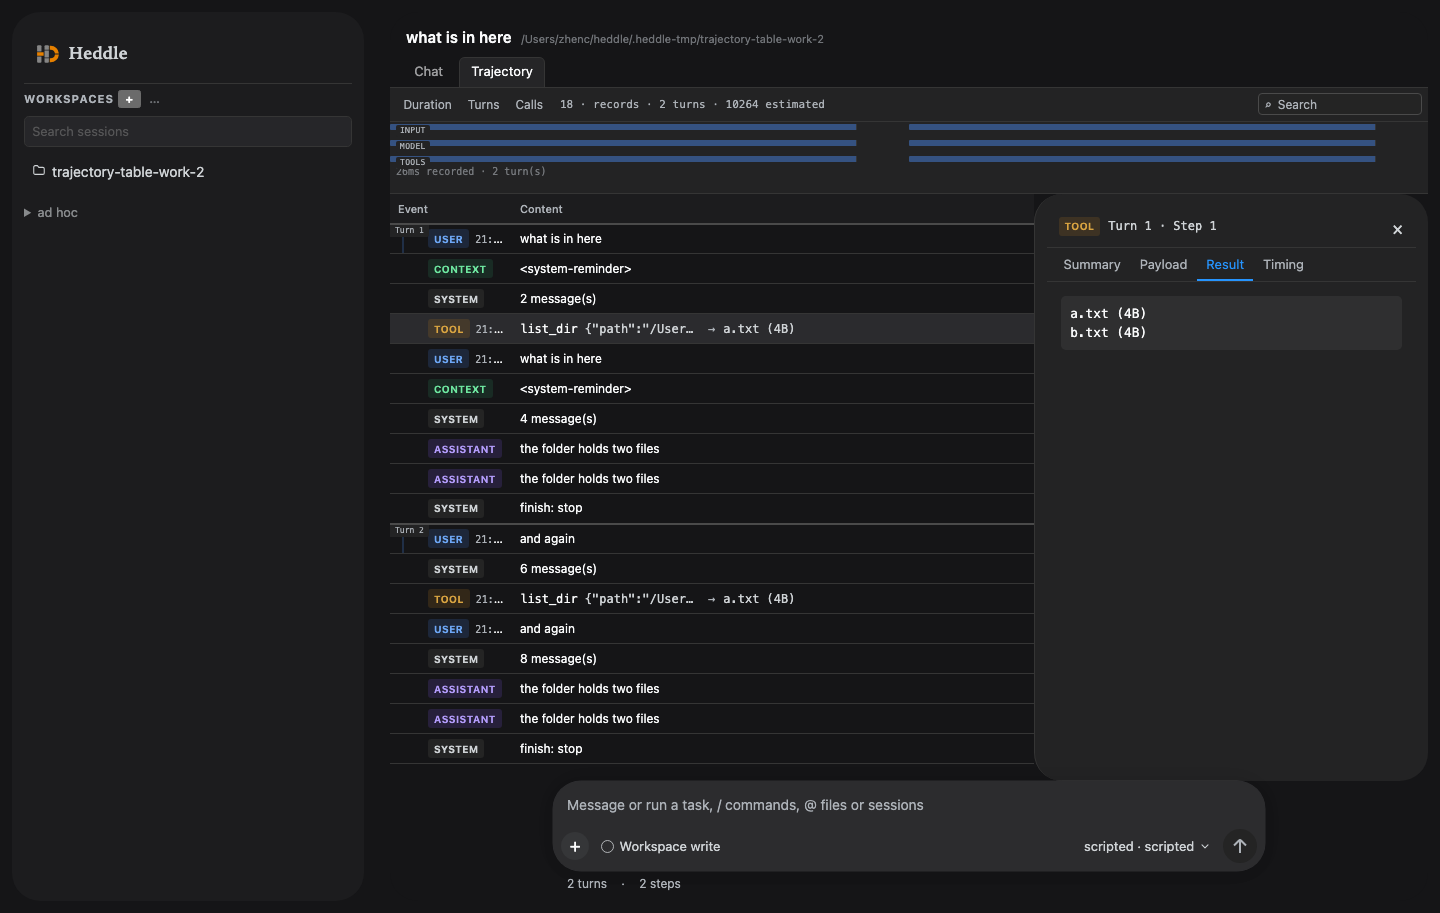
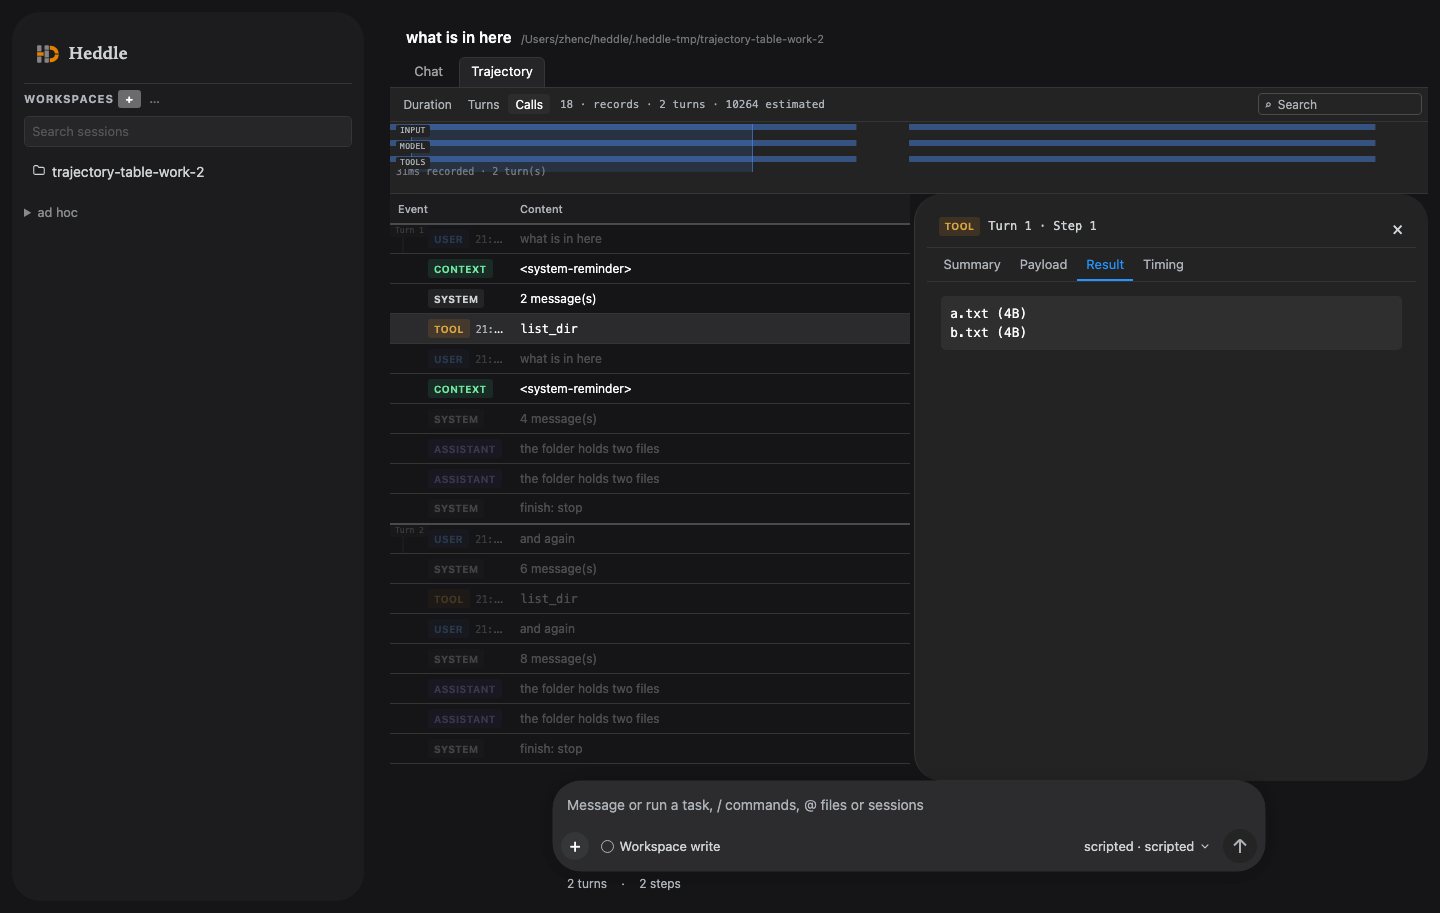
feat(trajectory): a resizable details pane, and the interaction claims pinned
Three interactions DSH's Trajectory has were implemented and then judged rather than assumed:

- **the details pane resizes**: an 8px col-resize handle on its left edge, dragging it sets the width in
  pixels within the bounds the table needs. A synthetic-pointer drag moves it 120px and the check asserts
  it kept the width.
- **the lane strip focuses a window**: dragging across Input/Model/Tools sets the focus range, and rows
  outside it dim. The check drags the strip and asserts rows carry `data-focus="outside"` at DSH's
  **0.24** opacity.
- **collapse calls**: one compact line per call with its arguments and result preview hidden until the
  row is opened. The check asserts the switch's pressed state, the compact class, and that both previews
  compute to `display: none`.

The renderer also survives a synthetic pointer now: `setPointerCapture` can throw for a pointer id the
browser did not issue, and the drag works from the window listeners regardless, so the call is guarded
instead of aborting the focus interaction.

Verified: the part 9 Trajectory check is green with all three assertions, `npm test` is 226 passing and
`tsc --noEmit` is clean. The page diff for this round was entirely this change, so it committed without
sweeping the other session's in-flight work; the screenshot beside the DSH reference in
`_context_/dsh-mechanisms/` was regenerated from the checked page.
[…]

diff --git a/src/server/page.html b/src/server/page.html
@@ -1053,6 +1053,8 @@
   #tr-table tbody tr.tr-compact .tr-args, #tr-table tbody tr.tr-compact .tr-result, #tr-table tbody tr.tr-compact .tr-arrow { display: none; }
   #tr-details { display: flex; flex-direction: column; flex: none; width: clamp(320px, 38%, 440px); min-width: 0; border-left: .5px solid var(--line); background: var(--surface); overflow: hidden; }
   #tr-details[hidden] { display: none; }
+  .tr-d-resize { flex: none; width: 8px; margin-left: -4px; cursor: col-resize; touch-action: none; background: none; border: 0; padding: 0; position: relative; z-index: 2; }
+  .tr-d-resize:hover, .tr-d-resize:focus-visible { outline: none; box-shadow: inset 1px 0 0 var(--accent); }
   .tr-d-head { display: flex; align-items: center; gap: 8px; flex: none; height: 42px; padding: 0 8px 0 12px; border-bottom: .5px solid var(--line); }
   .tr-d-where { min-width: 0; overflow: hidden; white-space: nowrap; text-overflow: ellipsis; color: var(--text-2); font: 500 12px var(--mono); }
   .tr-d-close { margin-left: auto; flex: none; width: 28px; height: 28px; border: 0; border-radius: 4px; background: none; color: var(--text-2); font-size: 18px; line-height: 18px; cursor: pointer; }
@@ -1875,7 +1877,30 @@ function renderLedger(data, timeline_ = { spans: [], durationMs: 0 }) {
   const details = document.createElement('aside')
   details.id = 'tr-details'
   details.hidden = true
-  split.append(pane, details)
+  const resize = document.createElement('div')
+  resize.className = 'tr-d-resize'
+  resize.setAttribute('role', 'separator')
+  resize.setAttribute('aria-orientation', 'vertical')
+  resize.setAttribute('aria-label', 'resize the details pane')
+  const setWidth = (width) => {
+    const bounds = split.getBoundingClientRect()
+    const clamped = Math.max(280, Math.min(width, Math.max(320, bounds.width - 280)))
+    details.style.width = clamped + 'px'
+    resize.setAttribute('aria-valuenow', String(Math.round(clamped)))
+  }
+  resize.addEventListener('pointerdown', (pointerEvent) => {
+    pointerEvent.preventDefault()
+    const startX = pointerEvent.clientX
+    const startWidth = details.getBoundingClientRect().width
+    const move = (event) => setWidth(startWidth - (event.clientX - startX))
+    const stop = () => {
+      window.removeEventListener('pointermove', move)
+      window.removeEventListener('pointerup', stop)
+    }
+    window.addEventListener('pointermove', move)
+    window.addEventListener('pointerup', stop)
+  })
+  split.append(pane, resize, details)
   ledger.replaceChildren(split)
 
   const status = document.getElementById('tr-status')
@@ -1963,7 +1988,7 @@ function rowNode(row, index) {
   } else {
     const text = document.createElement('span')
     text.className = 'tr-text'
-    text.textContent = previewOf(record) + (record.inFlight === true ? ' · running' : '')
+    text.textContent = (row.preview ?? previewOf(record)) + (record.inFlight === true ? ' · running' : '')
     content.append(text)
   }
   tr.append(event, content)
@@ -2160,14 +2185,14 @@ function renderTimeline(timeline_, data = {}) {
   const spans = timeline_?.spans ?? []
   if (spans.length === 0) return
   const total = timeline_?.durationMs ?? 0
-  const laneKinds = { input: ['user', 'context', 'system'], model: ['assistant', 'reasoning', 'compaction'], tools: ['tool'] }
+  const lanes = ['input', 'model', 'tools']
   const wrapper = document.createElement('div')
   wrapper.className = 'tr-lanes'
   const focusBox = document.createElement('div')
   focusBox.className = 'tr-focus'
   wrapper.append(focusBox)
   const equal = 1 / spans.length
-  for (const lane of Object.keys(laneKinds)) {
+  for (const lane of lanes) {
     const laneBox = document.createElement('div')
     laneBox.className = 'tr-lane'
     laneBox.dataset.lane = lane
@@ -2178,7 +2203,7 @@ function renderTimeline(timeline_, data = {}) {
     track.className = 'tr-lane-track'
     spans.forEach((span, index) => {
       const kinds = span.kinds ?? []
-      if (!kinds.some((kind) => laneKinds[lane].includes(kind))) return
+      if (!(span.lanes ?? []).includes(lane)) return
       const tick = document.createElement('button')
       tick.type = 'button'
       tick.className = 'tr-tick'
@@ -2229,7 +2254,11 @@ function renderTimeline(timeline_, data = {}) {
     focusBox.style.display = 'block'
     focusBox.style.left = (startX * 100).toFixed(2) + '%'
     focusBox.style.width = '0%'
-    timeline.setPointerCapture?.(pointerEvent.pointerId)
+    try {
+      timeline.setPointerCapture?.(pointerEvent.pointerId)
+    } catch {
+      // A synthetic pointer cannot be captured; the drag still works from the listeners below.
+    }
   }
   timeline.onpointermove = (pointerEvent) => {
     if (!dragging) return
@@ -4447,6 +4476,18 @@ function menuButton(node, items) {
 }
 
 document.addEventListener('click', closeMenus)
+
+/**
+ * The page's **seam for the verifiers**.
+ *
+ * Parts 85 and 90 drive this page by calling a handler directly — `showSession(id)` — because what they judge is the
+ * panel, not the navigation that reaches it. A module's bindings are not global, so those checks met a
+ * `ReferenceError: showSession is not defined`; measured in the browser, on a page whose only script is a module.
+ * The alternative was for their checks to walk three tree levels to reach the same function, which tests the tree
+ * instead of the panel. So the two actions are exposed here, deliberately, in one place, and named for what they
+ * are: a seam rather than a public API.
+ */
+Object.assign(globalThis, { showSession, showFile })
 
 function nodeRow(node) {
   const li = document.createElement('li')
